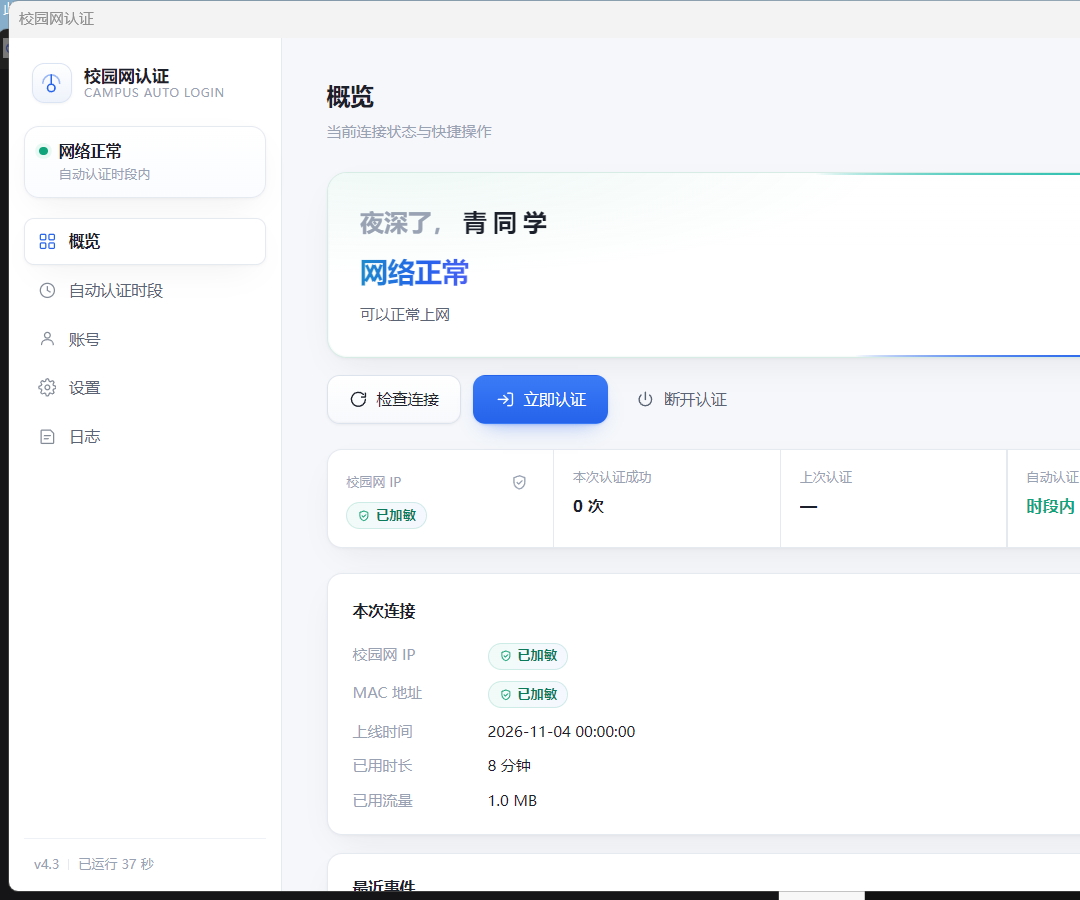
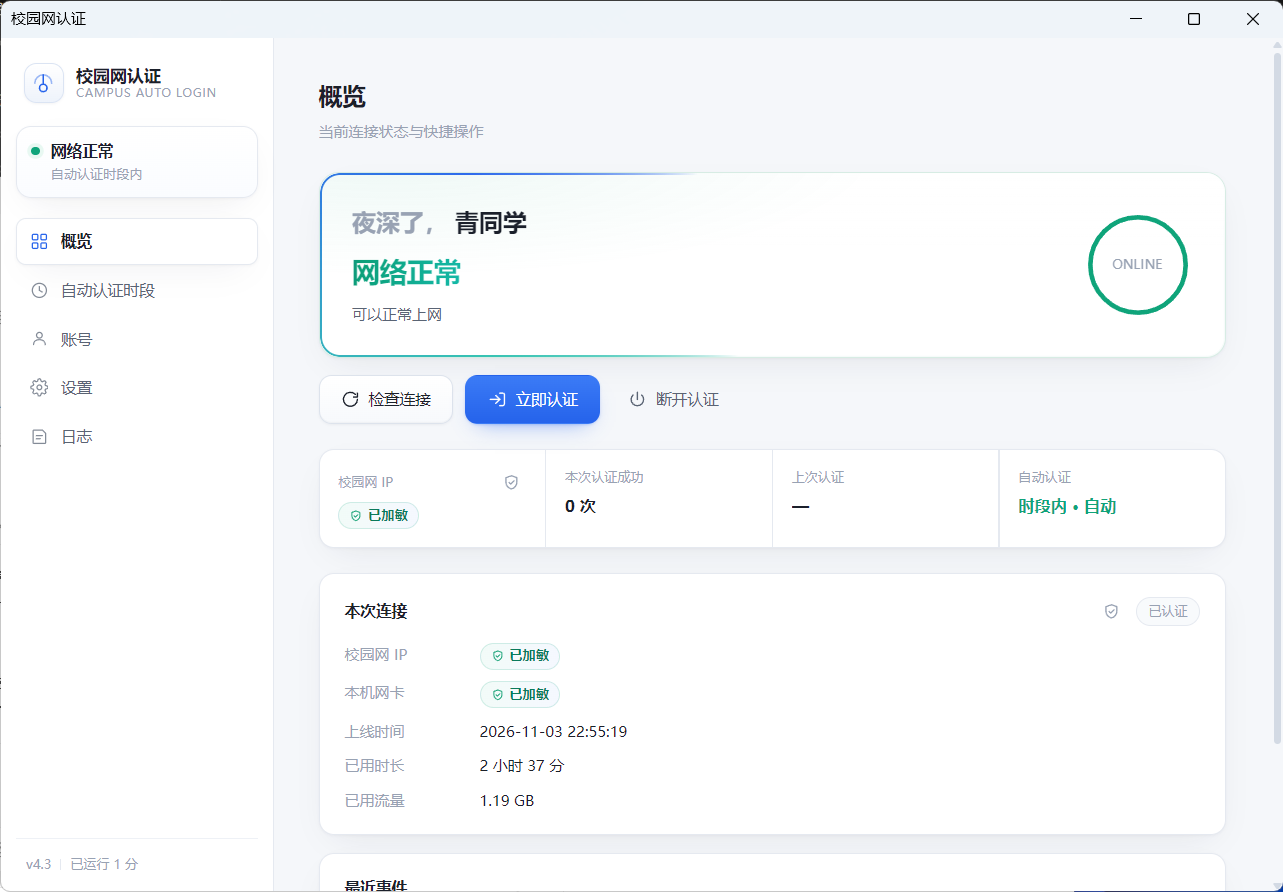
fix: custom gateway should start empty and greeting click should rejoin privacy cycle

diff --git a/internal/api/ui/app.js b/internal/api/ui/app.js
@@ -224,8 +224,17 @@ function cycleNamePrivacy() {
     nameEditSuppressedClick = false;
     return;
   }
-  // 自定义文案时，点击不再改回默认；长按可以继续编辑或清空。
-  if (privacy.customName) return;
+  // 自定义文案在循环之外：点击后清掉自定义状态，回到三态循环。
+  if (privacy.customName) {
+    privacy.customName = "";
+    const next = (privacy.nameLevel + 1) % 3;
+    privacy.nameLevel = next;
+    animateNameChange();
+    updatePrivacySwitches();
+    saveCustomName();
+    savePrivacy();
+    return;
+  }
   const next = (privacy.nameLevel + 1) % 3;
   privacy.nameLevel = next;
   animateNameChange();
@@ -480,9 +489,11 @@ const GATEWAY_PRESETS = [
   { id: "custom", label: "自定义网关", value: "" },
 ];
 
+let gatewayCustomSelected = false;
+
 function syncGatewaySelect(value) {
   const sel = document.getElementById("selGateway");
-  if (!sel) return;
+  if (!sel || gatewayCustomSelected) return;
   const match = GATEWAY_PRESETS.find((p) => p.value && value === p.value);
   sel.value = match ? match.id : "custom";
 }
@@ -495,17 +506,22 @@ function syncGatewaySelect(value) {
   sel.addEventListener("change", () => {
     const inp = document.getElementById("inpGateway");
     const preset = GATEWAY_PRESETS.find((p) => p.id === sel.value);
+    gatewayCustomSelected = !preset?.value;
+    inp.dataset.touched = "1";
     if (preset?.value) {
       inp.value = preset.value;
-      inp.dataset.touched = "1";
+    } else {
+      inp.value = "";
     }
     inp.focus();
   });
 })();
 
 document.getElementById("inpGateway").addEventListener("input", (e) => {
+  const value = e.target.value.trim();
   e.target.dataset.touched = "1";
-  syncGatewaySelect(e.target.value.trim());
+  gatewayCustomSelected = !GATEWAY_PRESETS.some((p) => p.value && value === p.value);
+  syncGatewaySelect(value);
 });
 
 const PHASE_TEXT = {
@@ -681,12 +697,15 @@ function renderState(s) {
   // --- 账号表单预填 ---
   // 只在用户没动过表单时填充，否则每 2 秒轮询会把正在输入的内容冲掉
   const accTouched = document.getElementById("inpAccount").dataset.touched === "1";
-  if (!accTouched) {
-    const gi = document.getElementById("inpGateway");
-    const ai = document.getElementById("inpAccount");
-    const pi = document.getElementById("inpPassword");
+  const gi = document.getElementById("inpGateway");
+  const giTouched = gi.dataset.touched === "1";
+  if (!giTouched) {
     if (!gi.value && cfg.gateway) gi.value = cfg.gateway;
     syncGatewaySelect(gi.value.trim());
+  }
+  if (!accTouched) {
+    const ai = document.getElementById("inpAccount");
+    const pi = document.getElementById("inpPassword");
     if (!ai.value && cfg.account) ai.value = cfg.account;
     // 密码也回填：用户要求「保存后能看到、能改」。
     // 只在没被编辑过时填一次，避免 2 秒轮询把正在输入的内容冲掉。

diff --git a/README.md b/README.md
@@ -21,6 +21,8 @@
 - **有线 / Wi-Fi**：按“能到达认证网关的源 IP”检测，不假设必须插网线。
 - **便携单文件**：Go + WebView2，无本地 HTTP 端口，无额外运行时。
 
+![自动认证时段：每日时间与重点时段](docs/schedule.png)
+
 ## 隐私加敏
 
 - 姓名在进入界面之前就只保留姓氏，形成“X同学”。

diff --git a/README.en.md b/README.en.md
@@ -21,6 +21,8 @@
 - **Wired / Wi-Fi**: detects the source IP that can reach the auth gateway; no wired-only assumption.
 - **Portable single exe**: Go + WebView2, no local HTTP port and no extra runtime.
 
+![Schedule: daily hours and intensive window](docs/schedule.png)
+
 ## Privacy masking
 
 - The name is reduced to “X同学” before it reaches the UI.
